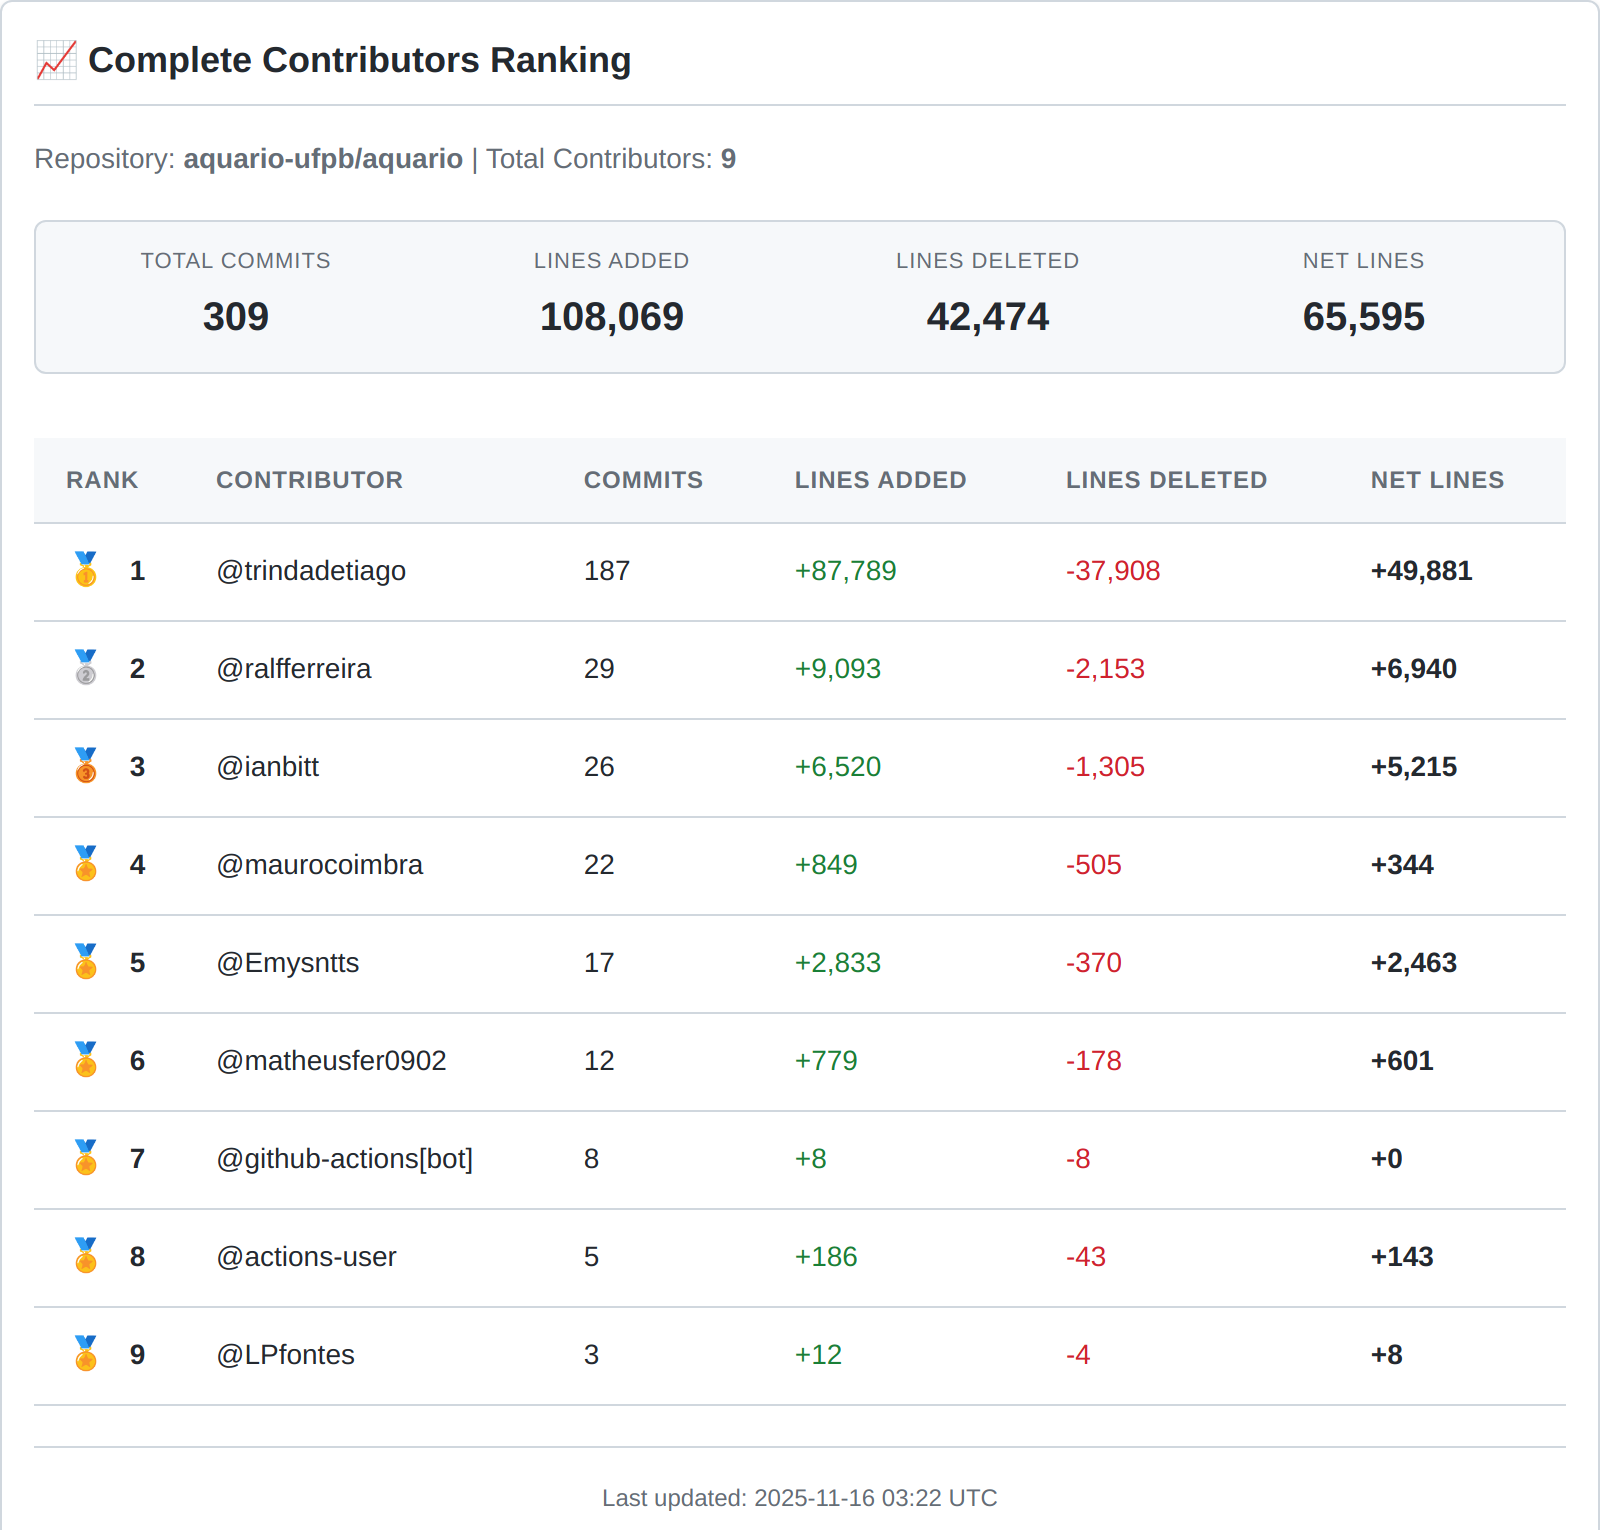
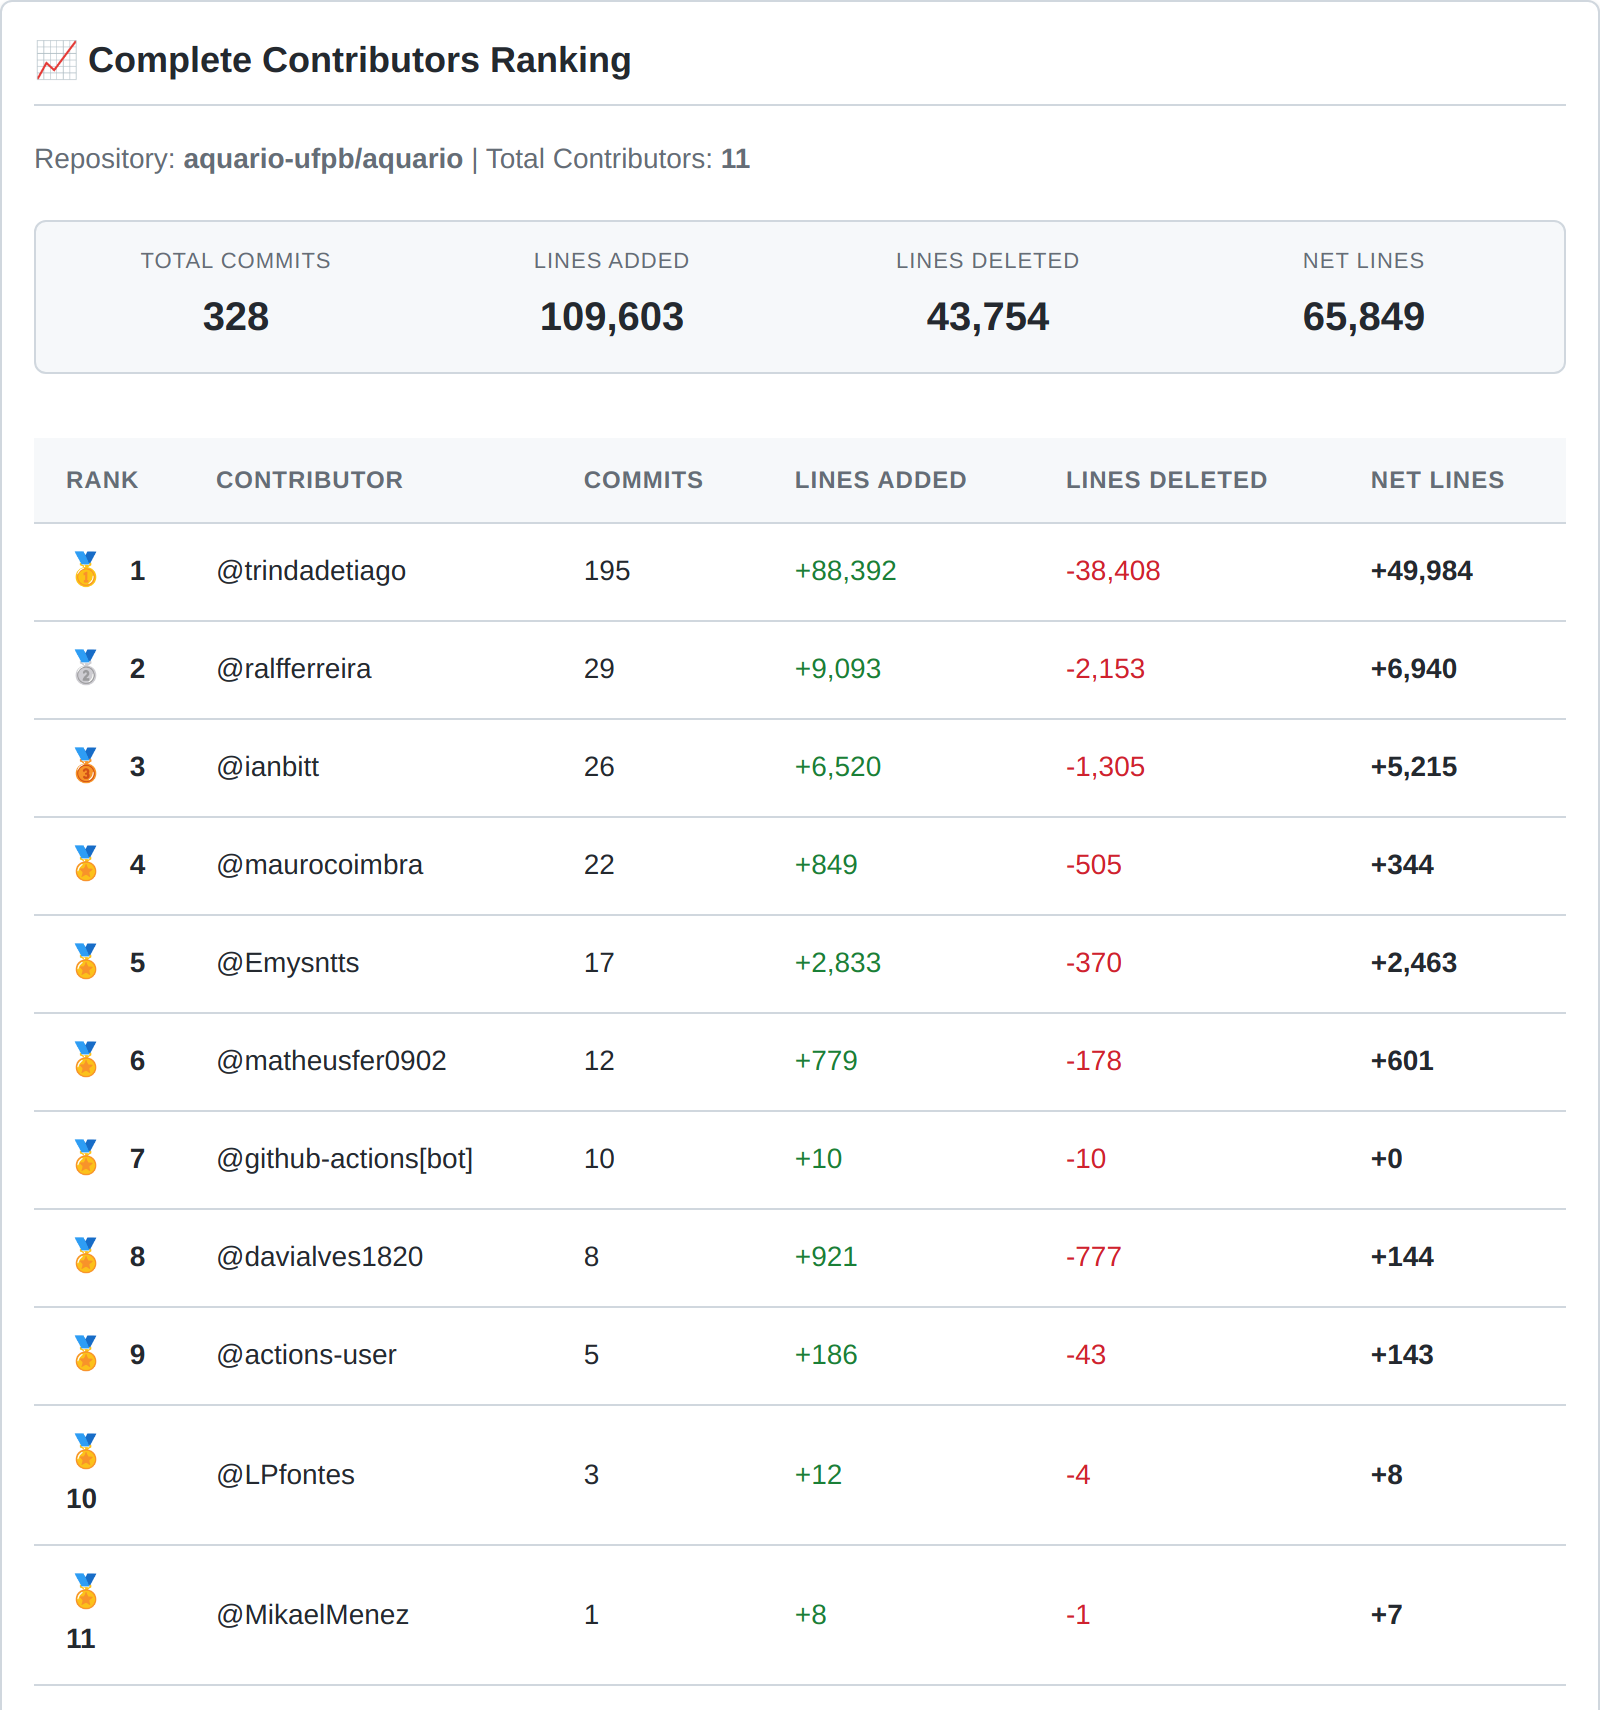
📊 Update contributor insights and visualizations [skip ci]

diff --git a/CONTRIBUTOR_INSIGHTS.md b/CONTRIBUTOR_INSIGHTS.md
@@ -1,7 +1,7 @@
 # 📊 Contributor Insights
 
 > **Repository:** aquario-ufpb/aquario  
-> **Last Updated:** Sunday, November 16, 2025 at 03:22 AM  
+> **Last Updated:** Monday, November 17, 2025 at 09:55 PM  
 > **Generated by:** [GitHub Action](.github/workflows/contributor-insights.yml)
 
 ---
@@ -10,14 +10,14 @@
 
 | Metric | Value |
 |--------|-------|
-| **Total Contributors** | 9 |
-| **Total Commits** | 309 |
-| **Total Lines Added** | +108,069 |
-| **Total Lines Deleted** | -42,474 |
-| **Net Lines Changed** | +65,595 |
-| **Average Commits per Contributor** | 34 |
+| **Total Contributors** | 11 |
+| **Total Commits** | 328 |
+| **Total Lines Added** | +109,603 |
+| **Total Lines Deleted** | -43,754 |
+| **Net Lines Changed** | +65,849 |
+| **Average Commits per Contributor** | 30 |
 | **Most Active Contributor** | [@trindadetiago](https://github.com/trindadetiago) |
-| **Activity Trend** | 📉 decreasing |
+| **Activity Trend** | 📊 stable |
 
 ---
 
@@ -25,7 +25,7 @@
 
 | Rank | Contributor | Commits | Lines Added | Lines Deleted | Net Lines |
 |------|-------------|---------|-------------|---------------|-----------|
-| 🥇 1 | [@trindadetiago](https://github.com/trindadetiago) | 187 | +87,789 | -37,908 | +49,881 |
+| 🥇 1 | [@trindadetiago](https://github.com/trindadetiago) | 195 | +88,392 | -38,408 | +49,984 |
 | 🥈 2 | [@ralfferreira](https://github.com/ralfferreira) | 29 | +9,093 | -2,153 | +6,940 |
 | 🥉 3 | [@ianbitt](https://github.com/ianbitt) | 26 | +6,520 | -1,305 | +5,215 |
 | 🏅 4 | [@maurocoimbra](https://github.com/maurocoimbra) | 22 | +849 | -505 | +344 |
@@ -36,22 +36,24 @@
 ## 📈 Activity Analysis
 
 ### Weekly Activity Highlights
-- **Most Active Week:** 2025-11-02 (69 commits by 9 contributors)
-- **Least Active Week:** 2024-07-21 (1 commits by 9 contributors)
+- **Most Active Week:** 2025-11-02 (69 commits by 11 contributors)
+- **Least Active Week:** 2024-07-21 (1 commits by 11 contributors)
 
 ### Recent Activity (Last 4 Weeks)
-- **Total Commits:** 80
-- **Average per Week:** 20
-- **Weeks with Activity:** 3/4
-- **Lines Added:** +9,594
-- **Lines Deleted:** -4,246
-- **Net Lines:** +5,348
+- **Total Commits:** 99
+- **Average per Week:** 24.8
+- **Weeks with Activity:** 4/4
+- **Lines Added:** +11,128
+- **Lines Deleted:** -5,526
+- **Net Lines:** +5,602
 
 ---
 
 ## 🆕 Recent Contributors
 
+- [@davialves1820](https://github.com/davialves1820) - 8 commits (first commit: 2025-11-09)
 - [@LPfontes](https://github.com/LPfontes) - 3 commits (first commit: 2025-11-02)
+- [@MikaelMenez](https://github.com/MikaelMenez) - 1 commits (first commit: 2025-11-16)
 
 ---
 
@@ -59,10 +61,10 @@
 
 | Range | Contributors | Percentage |
 |-------|-------------|------------|
-| 1-5 commits | 2 | 22% |
-| 6-20 commits | 3 | 33% |
-| 21-50 commits | 3 | 33% |
-| 100+ commits | 1 | 11% |
+| 1-5 commits | 3 | 27% |
+| 6-20 commits | 4 | 36% |
+| 21-50 commits | 3 | 27% |
+| 100+ commits | 1 | 9% |
 
 ---
 
@@ -70,9 +72,9 @@
 
 | Period | Commits | Contributors | Activity Level |
 |--------|---------|-------------|----------------|
-| **Last 4 weeks** | 80 | 3 active | 20 avg/week |
-| **Last 8 weeks** | 192 | 6 active | 24 avg/week |
-| **All time** | 309 | 9 | 10 avg/week |
+| **Last 4 weeks** | 99 | 4 active | 24.8 avg/week |
+| **Last 8 weeks** | 211 | 7 active | 26.4 avg/week |
+| **All time** | 328 | 11 | 11 avg/week |
 
 ---
 
@@ -80,7 +82,7 @@
 
 This report is automatically generated every **Sunday at 2 AM UTC** by a GitHub Action. You can also trigger it manually from the Actions tab.
 
-**Last run:** 2025-11-16T03:22:38.697Z
+**Last run:** 2025-11-17T21:55:18.153Z
 
 ---
 
